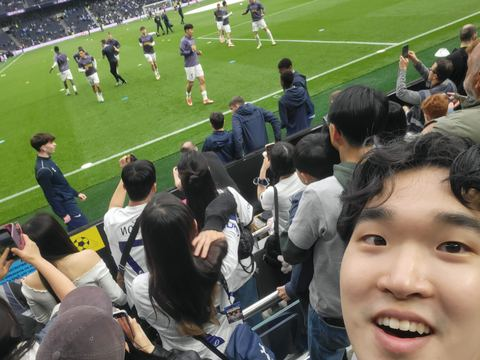
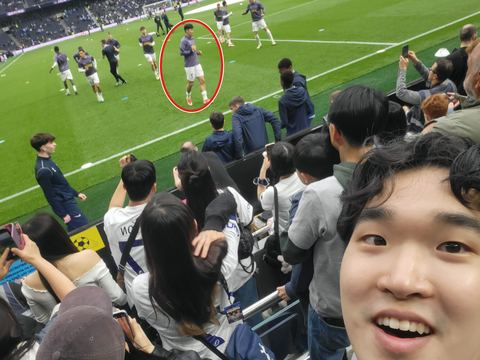
방명록 저장소를 SQLAlchemy + Supabase(PostgreSQL)로 전환(로컬 SQLite), 손흥민 사진 표시
Claude-Session: https://claude.ai/code/session_01URVobiVjZ4hk44AbmNuHSX

Changed region(s): [[0.3438, 0.0306, 0.4688, 0.3361], [0.3125, 0.1222, 0.3438, 0.2444]]

diff --git a/frontend/src/offwork.js b/frontend/src/offwork.js
@@ -13,7 +13,7 @@ export const travelPhotos = [
   { id: "paris", year: 2024, place: "프랑스 · 파리", caption: "에펠탑, 해 질 무렵" },
   { id: "paris2", year: 2024, place: "프랑스 · 파리", caption: "밤이 되면 반짝이는 에펠탑" },
   { id: "london", year: 2024, place: "영국 · 런던", caption: "타워 브리지" },
-  { id: "london_with_sonheungmin", year: 2024, place: "영국 · 런던", caption: "토트넘 홈경기 직관" },
+  { id: "london_with_sonheungmin", year: 2024, place: "영국 · 런던", caption: "토트넘 홈구장에서 손흥민 선수와 함께 (빨간 동그라미)" },
   { id: "netherland_amsterdam", year: 2024, place: "네덜란드 · 암스테르담", caption: "운하와 중앙역 앞" },
   { id: "portugal_porto", year: 2024, place: "포르투갈 · 포르투", caption: "도루 강의 노을" },
   { id: "spain_barcelona", year: 2024, place: "스페인 · 바르셀로나", caption: "사그라다 파밀리아" },

diff --git a/backend/main.py b/backend/main.py
@@ -1,22 +1,40 @@
 """
 조인성 개인 소개 페이지 · FastAPI 백엔드
 
-2주차 실습워크북의 메모장 API 구조(Pydantic 모델 + CORS 환경변수 + GET/POST/DELETE)를
+2주차 실습워크북의 메모장 API 구조(Pydantic 모델 + CORS 환경변수 + GET/POST/DELETE + SQLAlchemy)를
 그대로 따르고, 메모 대신 '방명록'을 다룬다.
-저장소는 인메모리 리스트라 서버가 재시작되면(Render 슬립 포함) 방명록은 초기화된다.
+저장소: 로컬은 SQLite(guestbook.db), 배포는 Supabase PostgreSQL (환경변수 DATABASE_URL).
 """
 
 import os
 from datetime import datetime, timezone
 
-from fastapi import FastAPI, HTTPException
+from fastapi import Depends, FastAPI, HTTPException
 from fastapi.middleware.cors import CORSMiddleware
-from pydantic import BaseModel, Field
+from pydantic import BaseModel, Field, field_serializer
+from sqlalchemy.orm import Session
+
+import models
+from database import Base, SessionLocal, engine, get_db
+
+# 테이블이 없으면 만든다 (models 를 import 한 뒤에 호출해야 테이블 정의를 안다)
+Base.metadata.create_all(bind=engine)
+
+
+def seed_first_entry():
+    """방명록이 비어 있으면 첫 글 하나를 넣어 둔다."""
+    with SessionLocal() as db:
+        if db.query(models.Guestbook).first() is None:
+            db.add(models.Guestbook(name="인성", message="첫 글은 제가 남겨요. 편하게 한 줄 남겨 주세요 🙂"))
+            db.commit()
+
+
+seed_first_entry()
 
 app = FastAPI(
     title="Insung Cho · Intro API",
     description="개인 소개 페이지용 FastAPI 백엔드. 간단한 방명록 API를 제공합니다.",
-    version="2.0.0",
+    version="3.0.0",
 )
 
 # ── CORS: 허용 출처를 환경변수로 (배포 시 Vercel 주소로) ──
@@ -41,22 +59,19 @@ class GuestbookIn(BaseModel):  # 요청 본문: 클라이언트가 보내는 데
 
 
 class GuestbookOut(BaseModel):  # 응답 본문: 서버가 돌려주는 데이터
+    model_config = {"from_attributes": True}  # ORM 객체를 그대로 응답으로 변환
+
     id: int
     name: str
     message: str
     created_at: datetime
 
-
-# ── 인메모리 저장소 (리스트에 저장 → 서버 끄면 사라짐) ──
-guestbook: list[dict] = [
-    {
-        "id": 1,
-        "name": "인성",
-        "message": "첫 글은 제가 남겨요. 편하게 한 줄 남겨 주세요 🙂",
-        "created_at": STARTED_AT,
-    }
-]
-next_id = 2
+    @field_serializer("created_at")
+    def _with_timezone(self, dt: datetime) -> str:
+        # SQLite 는 시간대 정보를 버리므로 UTC 로 명시해 브라우저가 올바르게 해석하게 한다.
+        if dt.tzinfo is None:
+            dt = dt.replace(tzinfo=timezone.utc)
+        return dt.isoformat()
 
 
 # ── 엔드포인트 ──
@@ -73,29 +88,25 @@ def health():
 
 
 @app.get("/api/guestbook", response_model=list[GuestbookOut], tags=["guestbook"])
-def list_guestbook():
-    return list(reversed(guestbook))  # 최신 글이 위로
+def list_guestbook(db: Session = Depends(get_db)):
+    # 최신 글이 위로
+    return db.query(models.Guestbook).order_by(models.Guestbook.id.desc()).all()
 
 
 @app.post("/api/guestbook", response_model=GuestbookOut, status_code=201, tags=["guestbook"])
-def create_guestbook(entry: GuestbookIn):
-    global next_id
-    new = {
-        "id": next_id,
-        "name": entry.name.strip(),
-        "message": entry.message.strip(),
-        "created_at": datetime.now(timezone.utc),
-    }
-    guestbook.append(new)
-    next_id += 1
+def create_guestbook(entry: GuestbookIn, db: Session = Depends(get_db)):
+    new = models.Guestbook(name=entry.name.strip(), message=entry.message.strip())
+    db.add(new)
+    db.commit()
+    db.refresh(new)  # DB가 채운 id, created_at 을 읽어 온다
     return new
 
 
 @app.delete("/api/guestbook/{entry_id}", tags=["guestbook"])
-def delete_guestbook(entry_id: int):
-    global guestbook
-    for g in guestbook:
-        if g["id"] == entry_id:
-            guestbook = [x for x in guestbook if x["id"] != entry_id]
-            return {"ok": True}
-    raise HTTPException(status_code=404, detail="Guestbook entry not found")
+def delete_guestbook(entry_id: int, db: Session = Depends(get_db)):
+    row = db.get(models.Guestbook, entry_id)
+    if row is None:
+        raise HTTPException(status_code=404, detail="Guestbook entry not found")
+    db.delete(row)
+    db.commit()
+    return {"ok": True}

diff --git a/backend/database.py b/backend/database.py
@@ -1,0 +1,40 @@
+"""
+DB 연결 설정 (2주차 워크북 4~5단계 방식)
+
+- 로컬: DATABASE_URL 이 없으면 SQLite 파일(guestbook.db)을 쓴다.
+- 배포: Render 환경변수 DATABASE_URL 에 Supabase(PostgreSQL) Session pooler 주소를 넣는다.
+"""
+
+import os
+
+from sqlalchemy import create_engine
+from sqlalchemy.orm import DeclarativeBase, sessionmaker
+
+DATABASE_URL = os.getenv("DATABASE_URL", "sqlite:///./guestbook.db")
+
+# Supabase가 주는 주소는 postgresql:// 로 시작하지만, 예전 postgres:// 형태도 받아 준다.
+if DATABASE_URL.startswith("postgres://"):
+    DATABASE_URL = DATABASE_URL.replace("postgres://", "postgresql://", 1)
+
+# SQLite 는 한 스레드에서만 접근하도록 막는 기본값이 있어 풀어 준다. PostgreSQL 은 해당 없음.
+connect_args = {"check_same_thread": False} if DATABASE_URL.startswith("sqlite") else {}
+
+engine = create_engine(
+    DATABASE_URL,
+    connect_args=connect_args,
+    pool_pre_ping=True,  # 잠들었다 깬 연결을 쓰기 전에 살아 있는지 확인
+)
+SessionLocal = sessionmaker(bind=engine, autoflush=False, autocommit=False)
+
+
+class Base(DeclarativeBase):
+    pass
+
+
+def get_db():
+    """요청마다 세션을 하나 열고, 끝나면 반드시 닫는다."""
+    db = SessionLocal()
+    try:
+        yield db
+    finally:
+        db.close()

diff --git a/backend/models.py b/backend/models.py
@@ -1,0 +1,19 @@
+"""테이블 정의 (SQLAlchemy ORM)"""
+
+from datetime import datetime, timezone
+
+from sqlalchemy import DateTime, Integer, String
+from sqlalchemy.orm import Mapped, mapped_column
+
+from database import Base
+
+
+class Guestbook(Base):
+    __tablename__ = "guestbook"
+
+    id: Mapped[int] = mapped_column(Integer, primary_key=True, index=True)
+    name: Mapped[str] = mapped_column(String(20), nullable=False)
+    message: Mapped[str] = mapped_column(String(200), nullable=False)
+    created_at: Mapped[datetime] = mapped_column(
+        DateTime(timezone=True), default=lambda: datetime.now(timezone.utc), nullable=False
+    )
